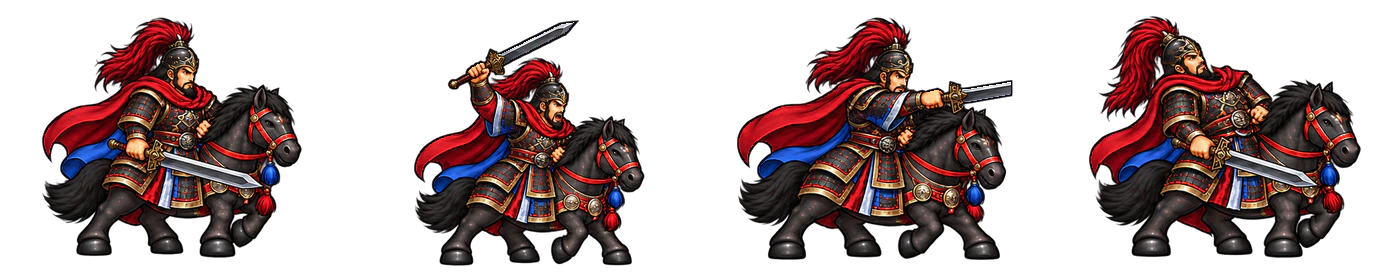
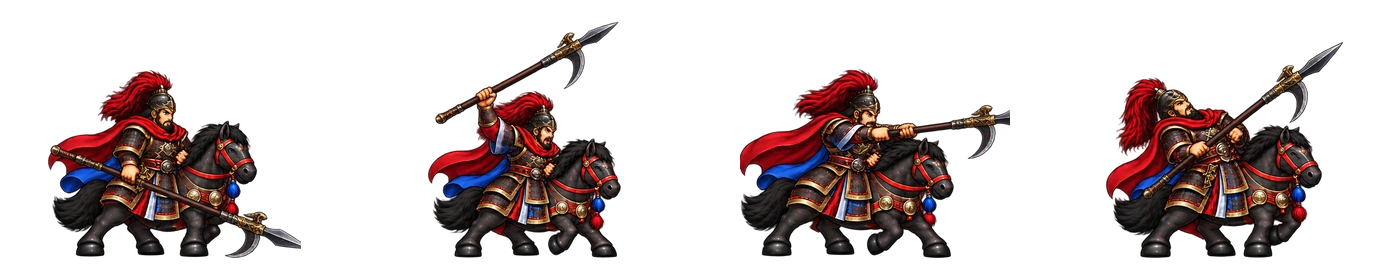
Give Xiang Yu his war halberd

diff --git a/tools/normalize-troop-sheet.py b/tools/normalize-troop-sheet.py
@@ -9,9 +9,7 @@ from pathlib import Path
 from PIL import Image
 
 
-COLS = ROWS = 4
-CELL_W, CELL_H = 280, 224
-MARGIN_X, MARGIN_Y = 28, 22
+COLS = 4
 
 
 def main_component(cell: Image.Image) -> Image.Image:
@@ -54,7 +52,7 @@ def main_component(cell: Image.Image) -> Image.Image:
     return sprite
 
 
-def normalize(source: Path, destination: Path) -> None:
+def normalize(source: Path, destination: Path, rows: int = 4, cell_w: int = 280, cell_h: int = 224) -> None:
     image = Image.open(source).convert("RGBA")
     # Image generation is most reliable on a flat chroma backdrop. When the
     # four corners are magenta, convert that backdrop (including antialiasing)
@@ -71,32 +69,36 @@ def normalize(source: Path, destination: Path) -> None:
                 target_pixels[x, y] = (r, g, b, 0 if is_magenta else alpha)
         image = cleaned
     x_edges = [round(index * image.width / COLS) for index in range(COLS + 1)]
-    y_edges = [round(index * image.height / ROWS) for index in range(ROWS + 1)]
+    y_edges = [round(index * image.height / rows) for index in range(rows + 1)]
     sprites: list[list[Image.Image]] = []
-    for row in range(ROWS):
+    for row in range(rows):
         current: list[Image.Image] = []
         for col in range(COLS):
             current.append(main_component(image.crop((x_edges[col], y_edges[row], x_edges[col + 1], y_edges[row + 1]))))
         sprites.append(current)
 
-    atlas = Image.new("RGBA", (CELL_W * COLS, CELL_H * ROWS))
+    margin_x, margin_y = round(cell_w * 0.08), round(cell_h * 0.08)
+    atlas = Image.new("RGBA", (cell_w * COLS, cell_h * rows))
     for row, current in enumerate(sprites):
         scale = min(
-            (CELL_W - MARGIN_X * 2) / max(sprite.width for sprite in current),
-            (CELL_H - MARGIN_Y * 2) / max(sprite.height for sprite in current),
+            (cell_w - margin_x * 2) / max(sprite.width for sprite in current),
+            (cell_h - margin_y * 2) / max(sprite.height for sprite in current),
         )
-        baseline = (row + 1) * CELL_H - MARGIN_Y
+        baseline = (row + 1) * cell_h - margin_y
         for col, sprite in enumerate(current):
             size = (max(1, round(sprite.width * scale)), max(1, round(sprite.height * scale)))
             sprite = sprite.resize(size, Image.Resampling.LANCZOS)
-            x = col * CELL_W + (CELL_W - sprite.width) // 2
+            x = col * cell_w + (cell_w - sprite.width) // 2
             y = baseline - sprite.height
             atlas.alpha_composite(sprite, (x, y))
     destination.parent.mkdir(parents=True, exist_ok=True)
-    atlas.save(destination, "WEBP", lossless=True, method=6)
+    # Lossy WebP with alpha uses the VP8X container expected by the asset
+    # validators, while quality 96 keeps sprite edges visually lossless.
+    atlas.save(destination, "WEBP", quality=96, method=6, exact=True)
 
 
 if __name__ == "__main__":
-    if len(sys.argv) != 3:
-        raise SystemExit("usage: normalize-troop-sheet.py SOURCE DESTINATION")
-    normalize(Path(sys.argv[1]), Path(sys.argv[2]))
+    if len(sys.argv) not in (3, 6):
+        raise SystemExit("usage: normalize-troop-sheet.py SOURCE DESTINATION [ROWS CELL_WIDTH CELL_HEIGHT]")
+    options = tuple(map(int, sys.argv[3:])) if len(sys.argv) == 6 else (4, 280, 224)
+    normalize(Path(sys.argv[1]), Path(sys.argv[2]), *options)

diff --git a/docs/art/장수-전투모델-재모델링-기준.md b/docs/art/장수-전투모델-재모델링-기준.md
@@ -358,7 +358,7 @@
 | 원담 | 군주 | 갈색 말 + 장검 | 붉은 술 투구, 짙은 녹갈 망토, 수염 | 1 |
 | 원상 | 군주 | 백마 + 장검 | 젊은 미남, 흰 망토, 은갑 | 1 |
 | 유방 | 군주 | 갈색 말 + 장검 | 대나무 껍질 관(유씨관), 젊은 얼굴과 단정한 검은 수염, 붉은 망토 | 1 |
-| 항우 | 군주 | 흑마 + 대형 장검 | 젊은 얼굴, 검은 옻칠 패왕 투구와 붉은 술, 검은 미늘갑옷, 붉은 망토, 거대한 체격 | 1 |
+| 항우 | 군주 | 흑마 + 초나라식 대극(패왕극) | 젊은 얼굴, 검은 옻칠 패왕 투구와 붉은 술, 검은 미늘갑옷, 붉은 망토, 거대한 체격 | 1 |
 
 ---
 
